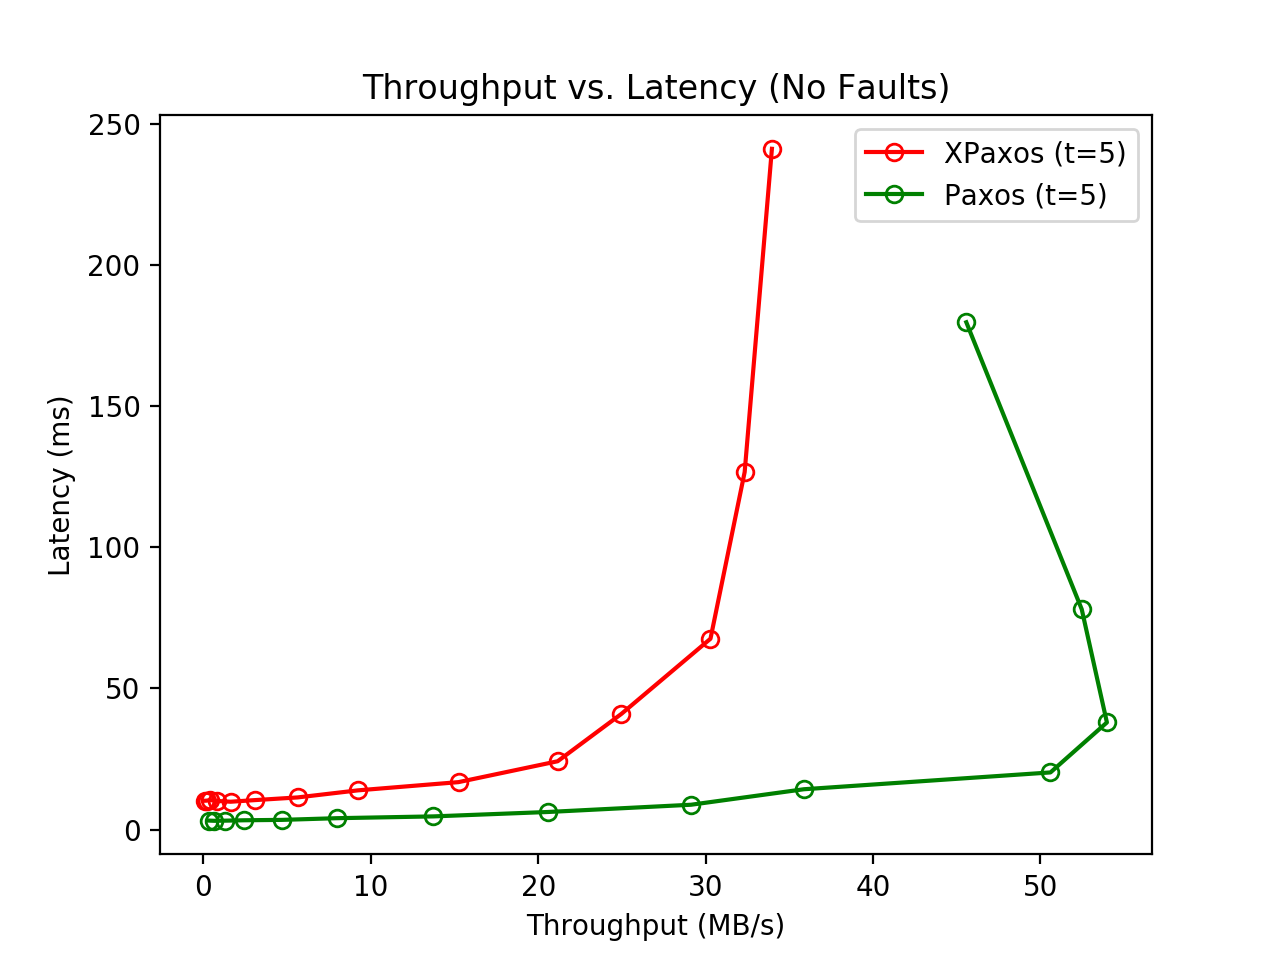
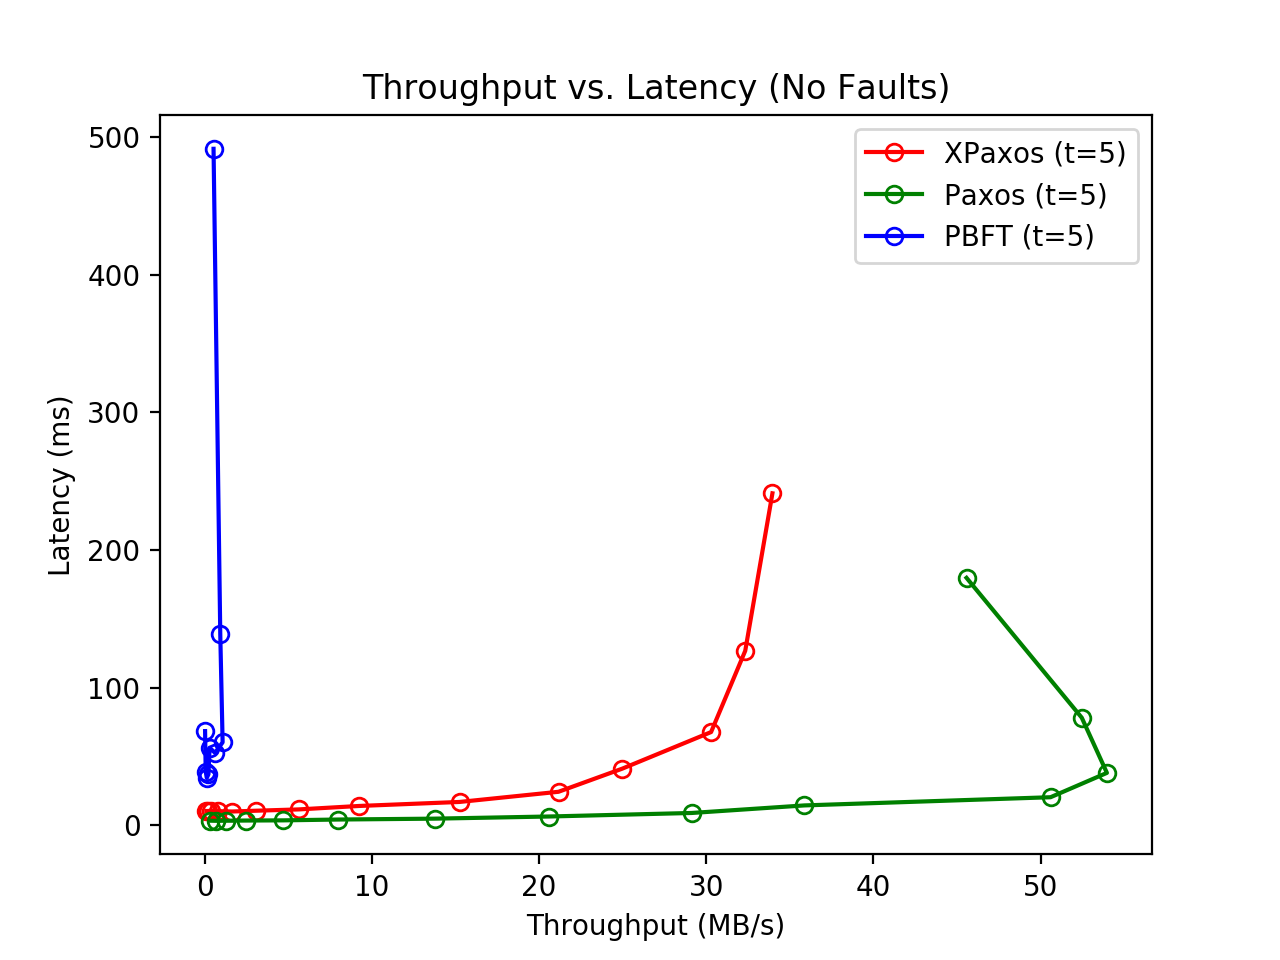
Added graphs with PBFT

diff --git a/graphs/plot_graphs.py b/graphs/plot_graphs.py
@@ -23,14 +23,16 @@ def calc_throughput_and_latency(latencies, op_size=1024, num_benchmarks=14):
 
 	return throughput, latencies
 
-def plot_throughput_vs_latency_1(n, xpaxos_latencies, paxos_latencies):
+def plot_throughput_vs_latency_1(n, xpaxos_latencies, paxos_latencies, pbft_latencies):
 	xpaxos_throughput, xpaxos_latencies = calc_throughput_and_latency(xpaxos_latencies)
 	paxos_throughput, paxos_latencies = calc_throughput_and_latency(paxos_latencies)
+	pbft_throughput, pbft_latencies = calc_throughput_and_latency(pbft_latencies)
 
 	plt.figure()
 	plt.title("Throughput vs. Latency (No Faults)")
 	plt.plot(xpaxos_throughput, xpaxos_latencies, "ro-", mfc="none", label="XPaxos (t={0})".format(n // 2))
 	plt.plot(paxos_throughput, paxos_latencies, "go-", mfc="none", label="Paxos (t={0})".format(n // 2))
+	plt.plot(pbft_throughput, pbft_latencies, "bo-", mfc="none", label="PBFT (t={0})".format(n // 2))
 	plt.xlabel("Throughput (MB/s)")
 	plt.ylabel("Latency (ms)")
 	plt.legend()
@@ -109,12 +111,18 @@ if __name__ == "__main__":
 	paxos_latencies_3_0 = [726676, 753971, 769380, 804065, 850515, 959943, 1105449, 
 		1282887, 1958755, 2912091, 4547516, 8552241, 16787261, 36280343]
 
+	pbft_latencies_3_0 = [4778619, 5178879, 3685023, 5246317, 3965824, 4513637, 6870450, 
+		8682543, 15452099, 17586748, 32345875, 67297315, 140710096, 367727000]
+
 	# Benchmark_5_0 - Number of XPaxos servers = 5 (t=2), No Faults, Network delta = 50ms
 	xpaxos_latencies_5_0 = [1902003, 1973498, 2012234, 2068098, 2145884, 2372787, 2813421, 
 		3826190, 6041209, 10682907, 19073795, 33974850, 65369896, 125670701]
 
 	paxos_latencies_5_0 = [1411875, 1340863, 1360656, 1339810, 1469436, 1682367, 1958918, 
 		2555338, 3420035, 5501513, 8208274, 15135304, 32572484, 70068151]
+
+	pbft_latencies_5_0	= [7234008, 12231302, 6031943, 10398568, 10202615, 7262754, 10818269, 
+		13610425, 23951295, 55614471, 82752484, 176918835, 345876106, 543848708]
 
 	# Benchmark_11_0 - Number of XPaxos servers = 11 (t=5), No Faults, Network delta = 50ms
 	xpaxos_latencies_11_0 = [10214935, 10240691, 10465488, 10135348, 9853552, 10427422, 11377794, 
@@ -123,9 +131,12 @@ if __name__ == "__main__":
 	paxos_latencies_11_0 = [3174589, 3095474, 3142733, 3283624, 3420335, 4018418, 4657095, 
 		6219817, 8788313, 14276049, 20237393, 37946124, 78068078, 179761933]
 
-	plot_throughput_vs_latency_1(3, xpaxos_latencies_3_0, paxos_latencies_3_0)
-	plot_throughput_vs_latency_1(5, xpaxos_latencies_5_0, paxos_latencies_5_0)
-	plot_throughput_vs_latency_1(11, xpaxos_latencies_11_0, paxos_latencies_11_0)
+	pbft_latencies_11_0 = [68333533, 38925763, 34254081, 37009771, 56236048, 52488547, 60172585, 
+		138702378, 491741094, 620023458, 811925764, 774095562, 566159487, 609928219]
+
+	plot_throughput_vs_latency_1(3, xpaxos_latencies_3_0, paxos_latencies_3_0, pbft_latencies_3_0)
+	plot_throughput_vs_latency_1(5, xpaxos_latencies_5_0, paxos_latencies_5_0, pbft_latencies_5_0)
+	plot_throughput_vs_latency_1(11, xpaxos_latencies_11_0, paxos_latencies_11_0, pbft_latencies_11_0)
 	plot_throughput_vs_latency_2(xpaxos_latencies_3_0, xpaxos_latencies_5_0, xpaxos_latencies_11_0)
 	#plot_time_vs_throughput(3, "output_3_0_256kB.txt", "output_3_R1_256kB.txt")
 	#plot_time_vs_throughput(5, "output_5_0_256kB.txt", "output_5_R1_256kB.txt")
